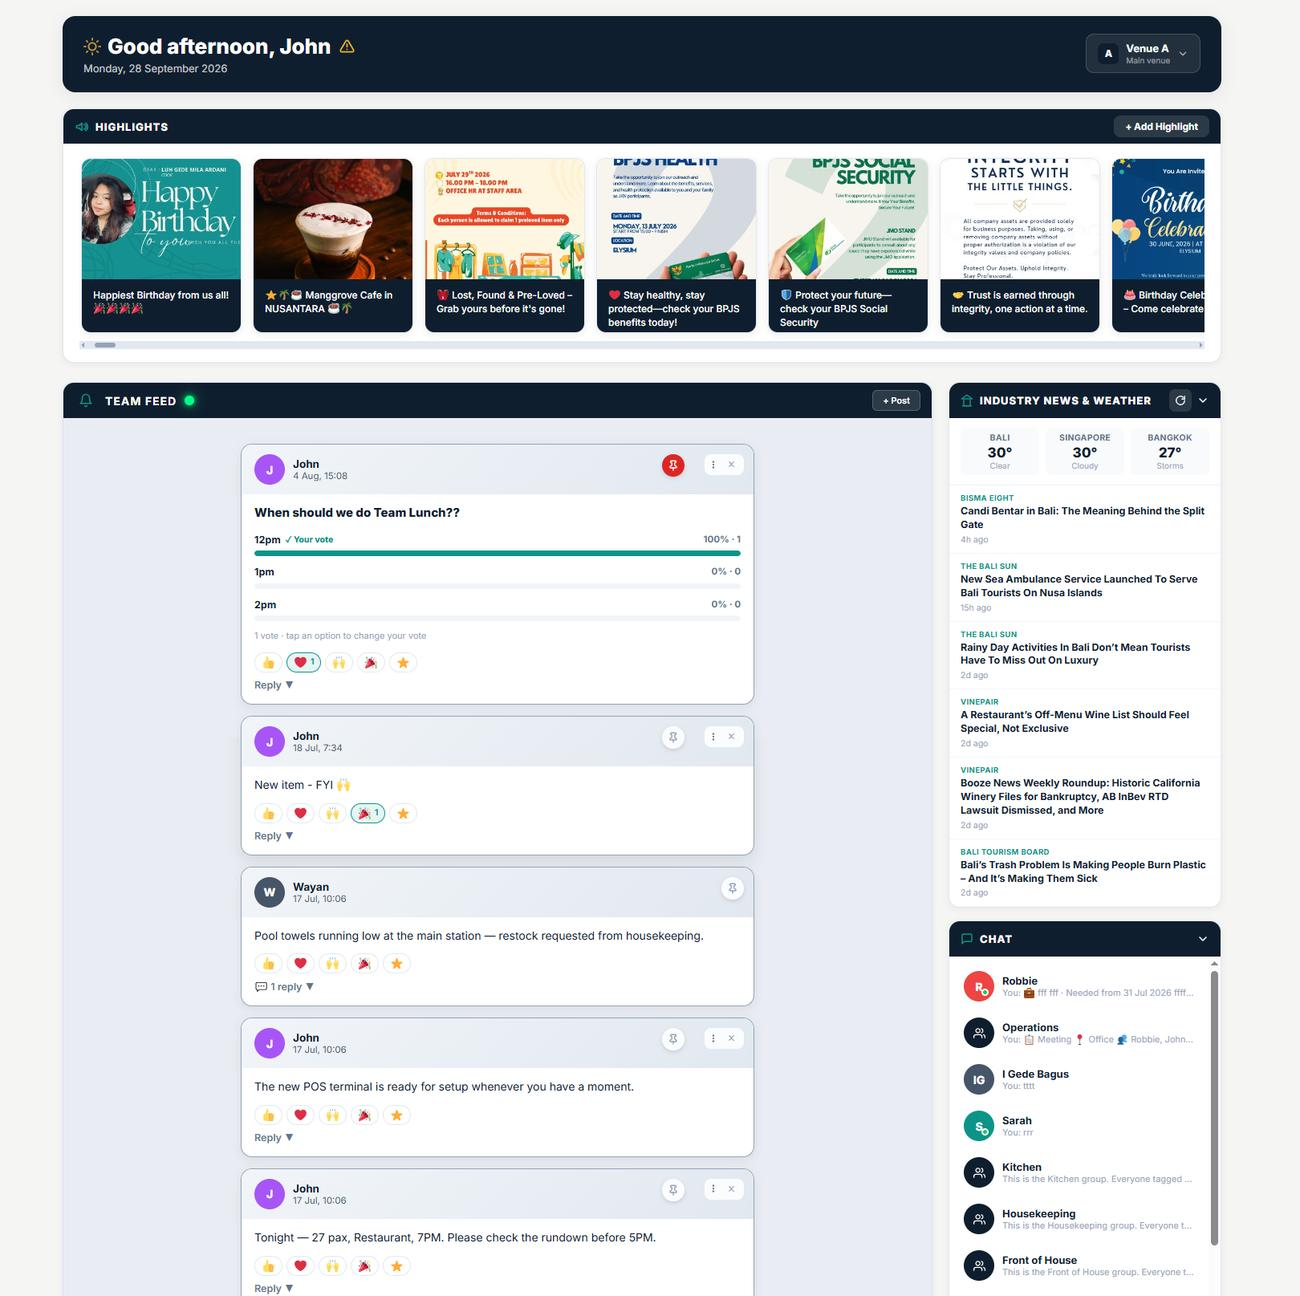
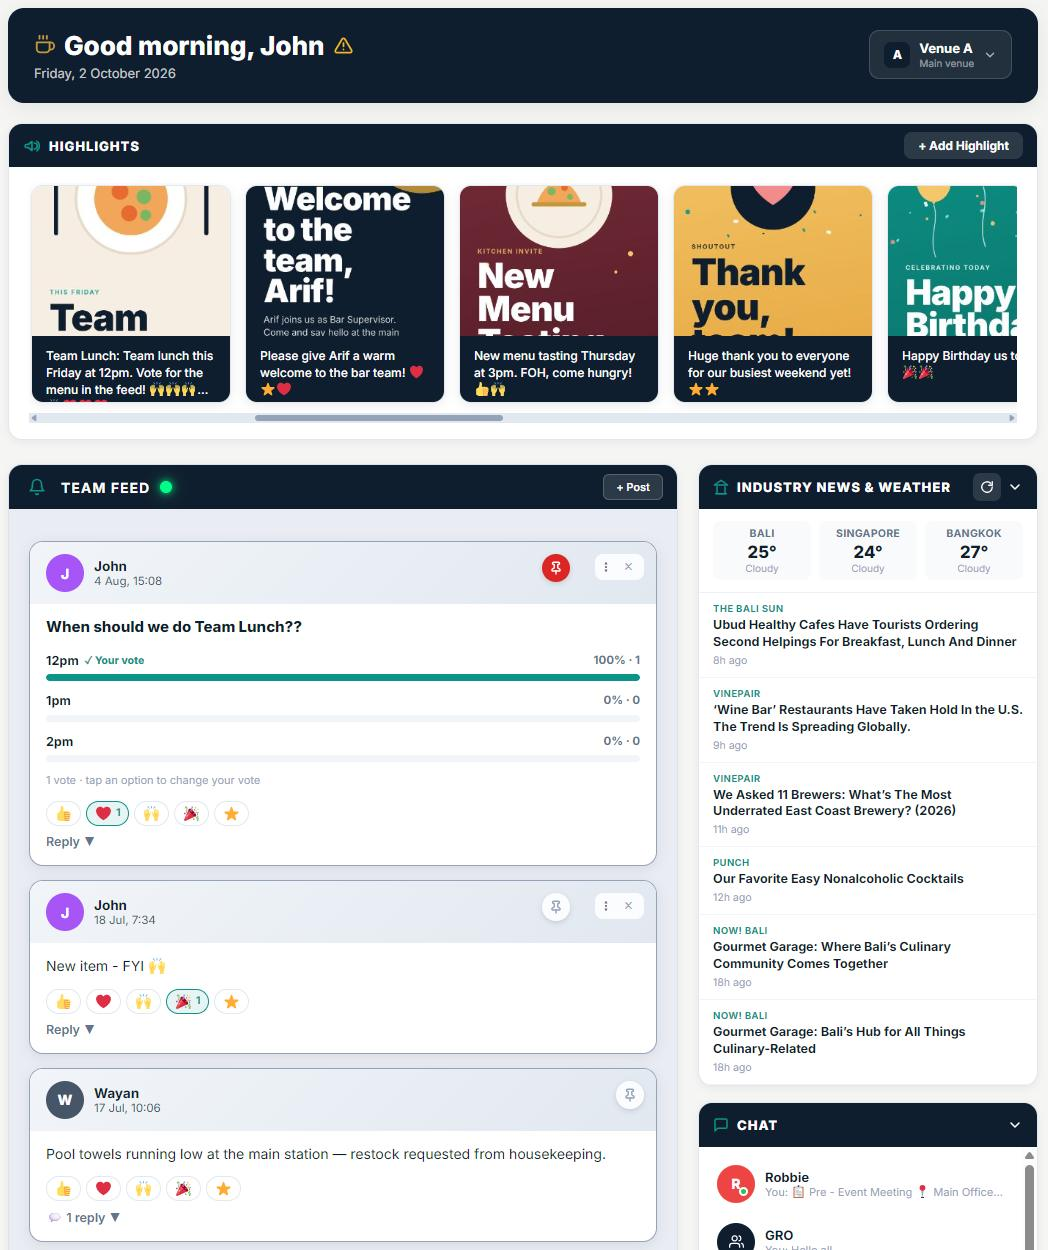
Tour: desktop dashboard uses new original demo highlights (no employer content)

diff --git a/tour/index.html b/tour/index.html
@@ -149,7 +149,7 @@ figure{margin:0}
 <ul><li><span class="tile"><svg viewBox="0 0 24 24" fill="none" stroke="currentColor" stroke-width="1.9" stroke-linecap="round" stroke-linejoin="round" aria-hidden="true"><path d="M3 9.5 12 3l9 6.5V20a1 1 0 0 1-1 1h-5v-6H9v6H4a1 1 0 0 1-1-1z"/></svg></span><div><h3>Everyone's part of the team</h3><p>Highlights, shoutouts and announcements in one feed. Open the app and you're in the loop.</p></div></li><li><span class="tile"><svg viewBox="0 0 24 24" fill="none" stroke="currentColor" stroke-width="1.9" stroke-linecap="round" stroke-linejoin="round" aria-hidden="true"><path d="M21 11.5a8.4 8.4 0 0 1-9 8.4 8.6 8.6 0 0 1-3.9-.9L3 21l1.9-5.1A8.4 8.4 0 0 1 12 3a8.4 8.4 0 0 1 9 8.5z"/></svg></span><div><h3>Every conversation, one place</h3><p>No more updates lost in 15 WhatsApp groups.</p></div></li><li><span class="tile"><svg viewBox="0 0 24 24" fill="none" stroke="currentColor" stroke-width="1.9" stroke-linecap="round" stroke-linejoin="round" aria-hidden="true"><path d="M3 2v7c0 1.1.9 2 2 2h4a2 2 0 0 0 2-2V2"/><path d="M7 2v20"/><path d="M21 15V2a5 5 0 0 0-5 5v6c0 1.1.9 2 2 2h3zm0 0v7"/></svg></span><div><h3>Menus and recipes together</h3><p>Every dish with its recipe, allergens and food cost. No more hunting through shared drives.</p></div></li><li><span class="tile"><svg viewBox="0 0 24 24" fill="none" stroke="currentColor" stroke-width="1.9" stroke-linecap="round" stroke-linejoin="round" aria-hidden="true"><path d="m9 11 3 3L22 4"/><path d="M21 12v7a2 2 0 0 1-2 2H5a2 2 0 0 1-2-2V5a2 2 0 0 1 2-2h11"/></svg></span><div><h3>Every procedure, one tap away</h3><p>New staff know the standard from day one.</p></div></li><li><span class="tile"><svg viewBox="0 0 24 24" fill="none" stroke="currentColor" stroke-width="1.9" stroke-linecap="round" stroke-linejoin="round" aria-hidden="true"><path d="M12 20V10"/><path d="M18 20V4"/><path d="M6 20v-4"/></svg></span><div><h3>The numbers, not the spreadsheets</h3><p>Revenue, forecasts and events, updated as you go.</p></div></li><li><span class="tile"><svg viewBox="0 0 24 24" fill="none" stroke="currentColor" stroke-width="1.9" stroke-linecap="round" stroke-linejoin="round" aria-hidden="true"><path d="M12 22s8-4 8-10V5l-8-3-8 3v7c0 6 8 10 8 10z"/></svg></span><div><h3>One login, the right access</h3><p>From the GM to the daily worker, everyone sees what they need.</p></div></li></ul></div></section>
 <section class="index" id="inside"><div class="wrap"><h2>What's inside. Tap to jump.</h2><div class="chips"><a class="chip" href="#f0"><svg viewBox="0 0 24 24" fill="none" stroke="currentColor" stroke-width="2" stroke-linecap="round" stroke-linejoin="round" aria-hidden="true"><path d="M3 9.5 12 3l9 6.5V20a1 1 0 0 1-1 1h-5v-6H9v6H4a1 1 0 0 1-1-1z"/></svg><span>Dashboard</span></a><a class="chip" href="#f1"><svg viewBox="0 0 24 24" fill="none" stroke="currentColor" stroke-width="2" stroke-linecap="round" stroke-linejoin="round" aria-hidden="true"><path d="M11 5 6 9H2v6h4l5 4z"/><path d="M15.5 8.5a5 5 0 0 1 0 7"/><path d="M19 5a10 10 0 0 1 0 14"/></svg><span>Highlights</span></a><a class="chip" href="#f2"><svg viewBox="0 0 24 24" fill="none" stroke="currentColor" stroke-width="2" stroke-linecap="round" stroke-linejoin="round" aria-hidden="true"><path d="M6 8a6 6 0 0 1 12 0c0 7 3 9 3 9H3s3-2 3-9"/><path d="M10.3 21a1.94 1.94 0 0 0 3.4 0"/></svg><span>Team Feed</span></a><a class="chip" href="#f3"><svg viewBox="0 0 24 24" fill="none" stroke="currentColor" stroke-width="2" stroke-linecap="round" stroke-linejoin="round" aria-hidden="true"><path d="M21 11.5a8.4 8.4 0 0 1-9 8.4 8.6 8.6 0 0 1-3.9-.9L3 21l1.9-5.1A8.4 8.4 0 0 1 12 3a8.4 8.4 0 0 1 9 8.5z"/></svg><span>Chat</span></a><a class="chip" href="#f4"><svg viewBox="0 0 24 24" fill="none" stroke="currentColor" stroke-width="2" stroke-linecap="round" stroke-linejoin="round" aria-hidden="true"><path d="M22 12h-4l-3 9L9 3l-3 9H2"/></svg><span>Forecast</span></a><a class="chip" href="#f5"><svg viewBox="0 0 24 24" fill="none" stroke="currentColor" stroke-width="2" stroke-linecap="round" stroke-linejoin="round" aria-hidden="true"><path d="M12 20V10"/><path d="M18 20V4"/><path d="M6 20v-4"/></svg><span>Analytics</span></a><a class="chip" href="#f6"><svg viewBox="0 0 24 24" fill="none" stroke="currentColor" stroke-width="2" stroke-linecap="round" stroke-linejoin="round" aria-hidden="true"><path d="M3 2v7c0 1.1.9 2 2 2h4a2 2 0 0 0 2-2V2"/><path d="M7 2v20"/><path d="M21 15V2a5 5 0 0 0-5 5v6c0 1.1.9 2 2 2h3zm0 0v7"/></svg><span>Kitchen</span></a><a class="chip" href="#f7"><svg viewBox="0 0 24 24" fill="none" stroke="currentColor" stroke-width="2" stroke-linecap="round" stroke-linejoin="round" aria-hidden="true"><path d="M3 2v7c0 1.1.9 2 2 2h4a2 2 0 0 0 2-2V2"/><path d="M7 2v20"/><path d="M21 15V2a5 5 0 0 0-5 5v6c0 1.1.9 2 2 2h3zm0 0v7"/></svg><span>Recipes</span></a><a class="chip" href="#f8"><svg viewBox="0 0 24 24" fill="none" stroke="currentColor" stroke-width="2" stroke-linecap="round" stroke-linejoin="round" aria-hidden="true"><rect x="3" y="3" width="18" height="18" rx="2"/><path d="M8 7v7"/><path d="M12 7v4"/><path d="M16 7v9"/></svg><span>Task Board</span></a><a class="chip" href="#f9"><svg viewBox="0 0 24 24" fill="none" stroke="currentColor" stroke-width="2" stroke-linecap="round" stroke-linejoin="round" aria-hidden="true"><path d="M13 2 3 14h9l-1 8 10-12h-9l1-8z"/></svg><span>Events</span></a><a class="chip" href="#f10"><svg viewBox="0 0 24 24" fill="none" stroke="currentColor" stroke-width="2" stroke-linecap="round" stroke-linejoin="round" aria-hidden="true"><path d="M12 22s8-4 8-10V5l-8-3-8 3v7c0 6 8 10 8 10z"/></svg><span>Admin Console</span></a><a class="chip" href="#f11"><svg viewBox="0 0 24 24" fill="none" stroke="currentColor" stroke-width="2" stroke-linecap="round" stroke-linejoin="round" aria-hidden="true"><path d="M21 15a2 2 0 0 1-2 2H7l-4 4V5a2 2 0 0 1 2-2h14a2 2 0 0 1 2 2z"/><path d="M8 8h8M8 12h5"/></svg><span>Customer Survey</span></a><a class="chip" href="#f12"><svg viewBox="0 0 24 24" fill="none" stroke="currentColor" stroke-width="2" stroke-linecap="round" stroke-linejoin="round" aria-hidden="true"><path d="m9 11 3 3L22 4"/><path d="M21 12v7a2 2 0 0 1-2 2H5a2 2 0 0 1-2-2V5a2 2 0 0 1 2-2h11"/></svg><span>SOPs</span></a><a class="chip" href="#f13"><svg viewBox="0 0 24 24" fill="none" stroke="currentColor" stroke-width="2" stroke-linecap="round" stroke-linejoin="round" aria-hidden="true"><path d="M21 15a2 2 0 0 1-2 2H7l-4 4V5a2 2 0 0 1 2-2h14a2 2 0 0 1 2 2z"/></svg><span>Suggestion Box</span></a><a class="chip" href="#f14"><svg viewBox="0 0 24 24" fill="none" stroke="currentColor" stroke-width="2" stroke-linecap="round" stroke-linejoin="round" aria-hidden="true"><rect x="2" y="7" width="20" height="14" rx="2"/><path d="M16 21V5a2 2 0 0 0-2-2h-4a2 2 0 0 0-2 2v16"/></svg><span>Job Vacancies</span></a><a class="chip" href="#f15"><svg viewBox="0 0 24 24" fill="none" stroke="currentColor" stroke-width="2" stroke-linecap="round" stroke-linejoin="round" aria-hidden="true"><path d="M12 2a3 3 0 0 0-3 3v7a3 3 0 0 0 6 0V5a3 3 0 0 0-3-3z"/><path d="M19 10v2a7 7 0 0 1-14 0v-2"/><path d="M12 19v3"/></svg><span>Smart Notetaker</span></a><a class="chip" href="#f16"><svg viewBox="0 0 24 24" fill="none" stroke="currentColor" stroke-width="2" stroke-linecap="round" stroke-linejoin="round" aria-hidden="true"><path d="M14.5 2H6a2 2 0 0 0-2 2v16a2 2 0 0 0 2 2h12a2 2 0 0 0 2-2V7.5z"/><path d="M14 2v6h6"/></svg><span>Meeting Notes</span></a></div></div></section>
 <div class="wrap"><section class="feat" id="f0"><div class="ftext"><p class="fname"><span class="tile sm"><svg viewBox="0 0 24 24" fill="none" stroke="currentColor" stroke-width="1.9" stroke-linecap="round" stroke-linejoin="round" aria-hidden="true"><path d="M3 9.5 12 3l9 6.5V20a1 1 0 0 1-1 1h-5v-6H9v6H4a1 1 0 0 1-1-1z"/></svg></span>Dashboard</p><h2>One screen, the whole day</h2><p class="lede">Team announcements, live polls, today's highlights and what's happening across the venue. Running more than one venue? Switch in a tap.</p></div>
-<div class="shots single deskwrap"><figure class="screen wide deskonly"><img src="/tour/img/deskdash.jpg" width="1300" height="1296" alt="Mavis dashboard on a laptop"></figure></div><div class="shots multi mobtb"><figure class="phone"><img src="/tour/img/dsh1.jpg" width="820" height="1640" alt="Dashboard greeting, venue and highlights"></figure><figure class="phone"><img src="/tour/img/dsh2.jpg" width="820" height="1640" alt="Switching between venues"></figure><figure class="phone"><img src="/tour/img/dsh3.jpg" width="820" height="1640" alt="Team feed posts"></figure><figure class="phone"><img src="/tour/img/dsh4.jpg" width="820" height="1640" alt="Industry news and weather"></figure><figure class="phone"><img src="/tour/img/dsh5.jpg" width="820" height="1640" alt="My Drive, Quick Links and menu sections"></figure></div><p class="hint mobtbh"><i class="on"></i><i></i><i></i><i></i><i></i><span>Swipe through the dashboard</span></p></section><section class="feat" id="f1"><div class="ftext"><p class="fname"><span class="tile sm"><svg viewBox="0 0 24 24" fill="none" stroke="currentColor" stroke-width="1.9" stroke-linecap="round" stroke-linejoin="round" aria-hidden="true"><path d="M11 5 6 9H2v6h4l5 4z"/><path d="M15.5 8.5a5 5 0 0 1 0 7"/><path d="M19 5a10 10 0 0 1 0 14"/></svg></span>Highlights</p><h2>Every win, seen by everyone</h2><p class="lede">Birthdays, shoutouts, local tips and reminders. Posted once, swiped through Instagram-style by the whole team.</p></div>
+<div class="shots single deskwrap"><figure class="screen wide deskonly"><img src="/tour/img/deskdash.jpg" width="1048" height="1250" alt="Mavis dashboard on a laptop"></figure></div><div class="shots multi mobtb"><figure class="phone"><img src="/tour/img/dsh1.jpg" width="820" height="1640" alt="Dashboard greeting, venue and highlights"></figure><figure class="phone"><img src="/tour/img/dsh2.jpg" width="820" height="1640" alt="Switching between venues"></figure><figure class="phone"><img src="/tour/img/dsh3.jpg" width="820" height="1640" alt="Team feed posts"></figure><figure class="phone"><img src="/tour/img/dsh4.jpg" width="820" height="1640" alt="Industry news and weather"></figure><figure class="phone"><img src="/tour/img/dsh5.jpg" width="820" height="1640" alt="My Drive, Quick Links and menu sections"></figure></div><p class="hint mobtbh"><i class="on"></i><i></i><i></i><i></i><i></i><span>Swipe through the dashboard</span></p></section><section class="feat" id="f1"><div class="ftext"><p class="fname"><span class="tile sm"><svg viewBox="0 0 24 24" fill="none" stroke="currentColor" stroke-width="1.9" stroke-linecap="round" stroke-linejoin="round" aria-hidden="true"><path d="M11 5 6 9H2v6h4l5 4z"/><path d="M15.5 8.5a5 5 0 0 1 0 7"/><path d="M19 5a10 10 0 0 1 0 14"/></svg></span>Highlights</p><h2>Every win, seen by everyone</h2><p class="lede">Birthdays, shoutouts, local tips and reminders. Posted once, swiped through Instagram-style by the whole team.</p></div>
 <div class="shots single"><figure class="phone"><img src="/tour/img/hl.jpg" width="820" height="1640" alt="A highlight opened full screen"></figure></div></section><section class="feat" id="f2"><div class="ftext"><p class="fname"><span class="tile sm"><svg viewBox="0 0 24 24" fill="none" stroke="currentColor" stroke-width="1.9" stroke-linecap="round" stroke-linejoin="round" aria-hidden="true"><path d="M6 8a6 6 0 0 1 12 0c0 7 3 9 3 9H3s3-2 3-9"/><path d="M10.3 21a1.94 1.94 0 0 0 3.4 0"/></svg></span>Team Feed</p><h2>Post once, everyone sees it</h2><p class="lede">Announcements and live polls, pinned right where the whole team looks first.</p></div>
 <div class="shots single"><figure class="phone"><img src="/tour/img/feed.jpg" width="820" height="1640" alt="Team feed with a live poll"></figure></div></section><section class="feat" id="f3"><div class="ftext"><p class="fname"><span class="tile sm"><svg viewBox="0 0 24 24" fill="none" stroke="currentColor" stroke-width="1.9" stroke-linecap="round" stroke-linejoin="round" aria-hidden="true"><path d="M21 11.5a8.4 8.4 0 0 1-9 8.4 8.6 8.6 0 0 1-3.9-.9L3 21l1.9-5.1A8.4 8.4 0 0 1 12 3a8.4 8.4 0 0 1 9 8.5z"/></svg></span>Chat</p><h2>Every conversation, one place</h2><p class="lede">Direct messages and department groups with no personal numbers. Tag someone's department and they're in the group, with nothing to update when staff change.</p></div>
 <div class="shots multi"><figure class="phone"><img src="/tour/img/chat1.jpg" width="820" height="1640" alt="Chat groups list"></figure><figure class="phone"><img src="/tour/img/chat2.jpg" width="820" height="1640" alt="A department group conversation"></figure></div><p class="hint"><i class="on"></i><i></i><span>Swipe to see the next screen</span></p></section><section class="feat" id="f4"><div class="ftext"><p class="fname"><span class="tile sm"><svg viewBox="0 0 24 24" fill="none" stroke="currentColor" stroke-width="1.9" stroke-linecap="round" stroke-linejoin="round" aria-hidden="true"><path d="M22 12h-4l-3 9L9 3l-3 9H2"/></svg></span>Forecast</p><h2>Know what's coming</h2><p class="lede">Built from real holidays, weather, currency and your own history, so you can plan staff and stock before the rush.</p></div>
